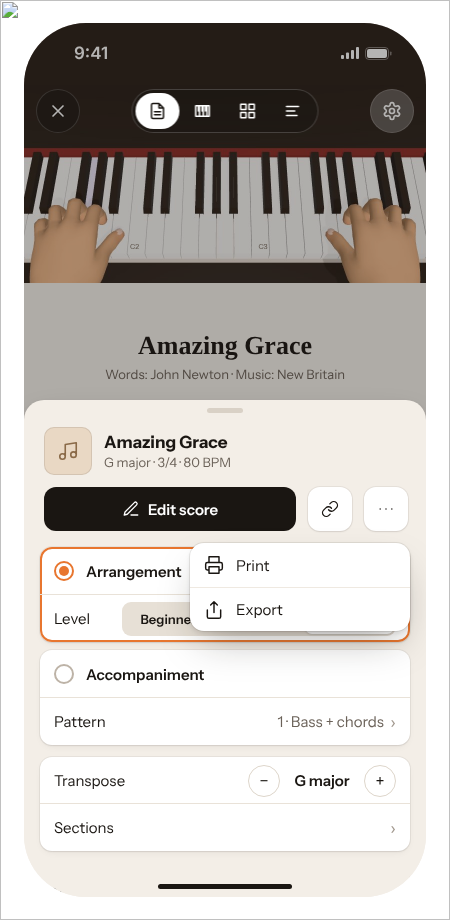
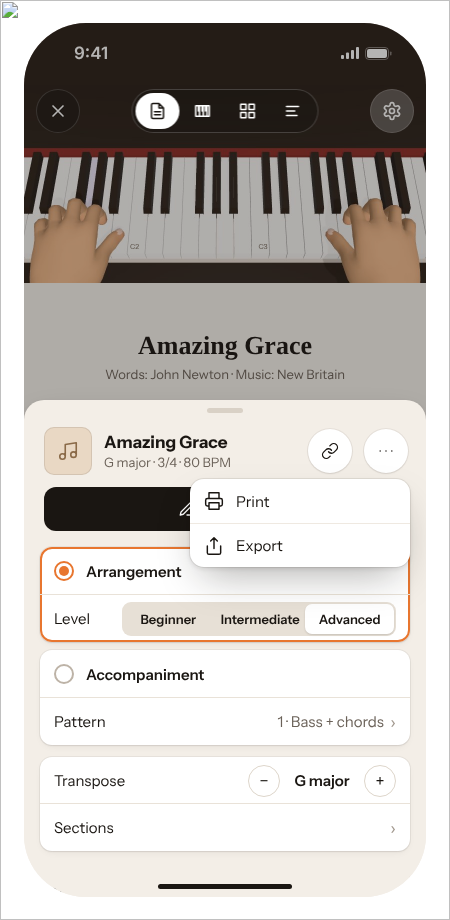
R37 canvas: Share link and More beside the song's name, Edit score the whole row
Claude-Session: https://claude.ai/code/session_01BrtnH1Yf7S8aVU4w6rFSCU

Changed region(s): [[0.28, 0.487, 0.9333, 0.7304]]

diff --git a/.scratch/r37/canvas/panels.py b/.scratch/r37/canvas/panels.py
@@ -116,17 +116,17 @@ ACTS = (caption('More') + '\n' + '<div role="group" aria-label="Song actions" st
     + ''.join('<button type="button" style="%s"><svg width="20" height="20" viewBox="0 0 24 24" fill="none" stroke="#6B6259" stroke-width="1.75" stroke-linecap="round" stroke-linejoin="round" aria-hidden="true" style="flex: none"><path d="%s"></path></svg><span style="flex: 1">%s</span><span aria-hidden="true" style="color: #A39A90; font-size: 18px">›</span></button>' % (ACT_ROW, d, n) for n, d in ACT_ICONS)
     + '</div>')
 ICON = lambda d, s=20: '<svg width="%d" height="%d" viewBox="0 0 24 24" fill="none" stroke="currentColor" stroke-width="1.75" stroke-linecap="round" stroke-linejoin="round" aria-hidden="true" style="flex: none"><path d="%s"></path></svg>' % (s, s, d)
-ICBTN = 'flex: none; width: 44px; height: 44px; border: 0; border-radius: 12px; background: #FFFFFF; color: #1A1612; display: flex; align-items: center; justify-content: center; box-shadow: 0 0 0 1px rgba(26,22,18,0.06), 0 1px 2px rgba(26,22,18,0.08)'
+ICBTN = 'flex: none; width: 44px; height: 44px; border: 0; border-radius: 9999px; background: #FFFFFF; color: #1A1612; display: flex; align-items: center; justify-content: center; box-shadow: 0 0 0 1px rgba(26,22,18,0.06), 0 1px 2px rgba(26,22,18,0.08)'
 MENU_ROW = 'min-height: 44px; box-sizing: border-box; padding: 0 14px; display: flex; align-items: center; gap: 12px; width: 100%; border: 0; border-top: 1px solid #EFE9E1; background: transparent; color: #1A1612; font-size: 15px; text-align: left'
 # the drawer's head is the song, as Chordify's and Apple Music's sheets are: its name and facts, and its two acts at the
 # right (Share link, and ··· for Edit score · Print · Export, a menu as Chordify's ⋮); settings only below, in groups
 SONGHEAD = ('<div style="flex: none; position: relative; display: flex; flex-wrap: wrap; align-items: center; gap: 12px; padding: 2px 2px 4px 4px">'
     '<span aria-hidden="true" style="flex: none; width: 48px; height: 48px; border-radius: 10px; background: #E9D8C4; box-shadow: inset 0 0 0 1px rgba(26,22,18,0.10); display: flex; align-items: center; justify-content: center; color: #8A6A48">' + ICON('M9 18V5l12-2v13M9 18a3 3 0 1 1-6 0 3 3 0 0 1 6 0ZM21 16a3 3 0 1 1-6 0 3 3 0 0 1 6 0Z', 22) + '</span>'
-    '<span style="flex: 1 1 calc(100% - 60px); min-width: 0; display: flex; flex-direction: column; gap: 2px"><span style="font-size: 17px; font-weight: 700; line-height: 1.2; white-space: nowrap; overflow: hidden; text-overflow: ellipsis">Amazing Grace</span><span style="font-size: 13px; color: #6B6259; white-space: nowrap; overflow: hidden; text-overflow: ellipsis">{{keyName}} · 3/4 · 80 BPM</span></span>'
-    '<button type="button" style="flex: 1; height: 44px; padding: 0 16px; border: 0; border-radius: 12px; background: #1A1612; color: #FFFFFF; display: flex; align-items: center; justify-content: center; gap: 8px; font-size: 15px; font-weight: 600">' + ICON('M12 20h9M16.5 3.5a2.1 2.1 0 0 1 3 3L7 19l-4 1 1-4Z', 18) + 'Edit score</button>'
+    '<span style="flex: 1; min-width: 0; display: flex; flex-direction: column; gap: 2px"><span style="font-size: 17px; font-weight: 700; line-height: 1.2; white-space: nowrap; overflow: hidden; text-overflow: ellipsis">Amazing Grace</span><span style="font-size: 13px; color: #6B6259; white-space: nowrap; overflow: hidden; text-overflow: ellipsis">{{keyName}} · 3/4 · 80 BPM</span></span>'
     '<button type="button" aria-label="Share link" style="' + ICBTN + '">' + ICON('M10 13a5 5 0 0 0 7.54.54l3-3a5 5 0 0 0-7.07-7.07l-1.72 1.71M14 11a5 5 0 0 0-7.54-.54l-3 3a5 5 0 0 0 7.07 7.07l1.71-1.71', 18) + '</button>'
     '<button type="button" aria-label="More" aria-expanded="{{songActsOn}}" onClick="{{toggleSongActs}}" style="' + ICBTN + '">' + ICON('M5 12h.01M12 12h.01M19 12h.01', 20) + '</button>'
-    '<sc-if value="{{songActsShow}}" hint-placeholder-val="{{false}}"><div role="menu" style="position: absolute; z-index: 5; right: 0; top: 118px; width: 220px; border-radius: 14px; background: #FFFFFF; overflow: hidden; box-shadow: 0 0 0 1px rgba(26,22,18,0.08), 0 2px 4px rgba(26,22,18,0.10), 0 18px 40px -12px rgba(26,22,18,0.35)">'
+    '<button type="button" style="flex: 1 1 100%; order: 1; height: 44px; padding: 0 16px; border: 0; border-radius: 12px; background: #1A1612; color: #FFFFFF; display: flex; align-items: center; justify-content: center; gap: 8px; font-size: 15px; font-weight: 600">' + ICON('M12 20h9M16.5 3.5a2.1 2.1 0 0 1 3 3L7 19l-4 1 1-4Z', 18) + 'Edit score</button>'
+    '<sc-if value="{{songActsShow}}" hint-placeholder-val="{{false}}"><div role="menu" style="position: absolute; z-index: 5; right: 0; top: 54px; width: 220px; border-radius: 14px; background: #FFFFFF; overflow: hidden; box-shadow: 0 0 0 1px rgba(26,22,18,0.08), 0 2px 4px rgba(26,22,18,0.10), 0 18px 40px -12px rgba(26,22,18,0.35)">'
     + ''.join('<button type="button" role="menuitem" onClick="{{toggleSongActs}}" style="%s%s">%s<span>%s</span></button>' % (MENU_ROW, '; border-top: 0' if i == 0 else '', ICON(d), n) for i, (n, d) in enumerate([
         ('Print', 'M6 9V2h12v7M6 18H4a2 2 0 0 1-2-2v-5a2 2 0 0 1 2-2h16a2 2 0 0 1 2 2v5a2 2 0 0 1-2 2h-2M6 14h12v8H6z'),
         ('Export', 'M4 12v8a2 2 0 0 0 2 2h12a2 2 0 0 0 2-2v-8M16 6l-4-4-4 4M12 2v13')]))

diff --git a/.scratch/r37/plan/pace-and-settings.md b/.scratch/r37/plan/pace-and-settings.md
@@ -151,11 +151,12 @@ settings drawer"; v151's icon list "still not good. research more and look also 
   Settings panel holds transposition, count-in, zoom and nothing to act on (soundslice.com/help, Transposing); Apple's
   HIG groups settings in lists under headers and puts an object's acts in a menu.
 - Will build: the drawer's head is the song, as a sheet in Chordify or Apple Music: a cover tile, **Amazing Grace**,
-  "G major · 3/4 · 80 BPM" (the key follows Transpose); under it one row of buttons: **Edit score** (ink, filling the
-  row, its pencil and its name: owner, 2026-11-08, "i don't like that the edit button is too hidden"), **Share link**,
-  and **More** (···) with **Print · Export**. Below, settings only, with **no section headings** (owner: "i don't like
+  "G major · 3/4 · 80 BPM" (the key follows Transpose), and at its right two round buttons, **Share link** and **More**
+  (···) with **Print · Export**; under it **Edit score** takes the whole row (ink, its pencil and its name: owner,
+  2026-11-08, "i don't like that the edit button is too hidden", then "move the two buttons up back and the edit
+  button takes the whole row"). Below, settings only, with **no section headings** (owner: "i don't like
   the headings or titles of the settings sections"): the Arrangement · Accompaniment cards, then Transpose and
-  Sections ›, the groups parted by space alone. No acts among the settings. Canvas v153 (v152 had the acts in ···);
+  Sections ›, the groups parted by space alone. No acts among the settings. Canvas v154 (v152 had the acts in ···);
   drawings `song-settings-acts.png`, `song-settings-more-menu.png`, `song-settings-acts-laptop.png`.
 
 **Placed (owner, 2026-11-07, on the five proposals):**

diff --git a/.claude/skills/owner-way/references/feedback-log.md b/.claude/skills/owner-way/references/feedback-log.md
@@ -83,7 +83,8 @@ owner's, typos fixed.
   distinctive", "feels like a bottom bar and not like settings drawer", "still not good. research more"): the song at
   the drawer's head with Share link and ··· (Edit score · Print · Export), as Chordify's ⋮; settings under headers below.
   Never a row of icon buttons in a drawer, never acts listed among settings.
-  Edit score is a full button under the song's name, never inside ··· ("the edit button is too hidden"); no section
+  Edit score takes the whole row under the song's name, Share link and ··· beside the name, never Edit inside ···
+  ("the edit button is too hidden", "the edit button takes the whole row"); no section
   headings over the drawer's groups ("i don't like the headings or titles of the settings sections").
 - **Settings a learner understands, ordered by what matters to them;** the sheet's View settings usable; nothing reserves
   a band above the keyboard, nor a tip; proper pedals, not a lever at the keys' corner (piano sites as the reference);
